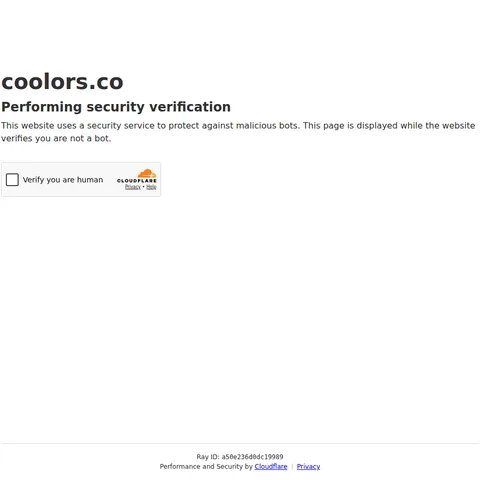
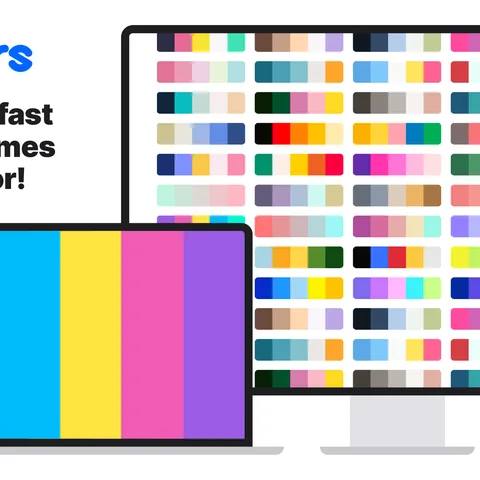
Name tiles for sites that block previews; sturdier sorting; fix Coolors and GEO

diff --git a/scripts/board.py b/scripts/board.py
@@ -134,6 +134,13 @@ def _parse_page(page, final_url):
     }
 
 
+BLOCK_TITLES = re.compile(r"^(just a moment|attention required|access denied|forbidden|403|security check|are you a robot|verify you are human)", re.I)
+
+
+def is_block_page(meta):
+    return bool(meta.get("title") and BLOCK_TITLES.match(meta["title"].strip()))
+
+
 def _oembed(url):
     endpoint = next((e for d, e in OEMBED.items() if site_of(url) == d or site_of(url).endswith("." + d)), None)
     if not endpoint:
@@ -189,6 +196,9 @@ def fetch_metadata(url):
             if meta is None:
                 raise
             print(f"  browser fetch failed ({e})")
+    if is_block_page(meta):
+        # The site refused automated visitors; keep only what the address tells us.
+        meta = {"final_url": url, "title": None, "description": None, "site_name": None, "image": None, "blocked": True}
     embed = _oembed(meta["final_url"])
     if embed.get("title"):
         meta["title"] = embed["title"]
@@ -221,8 +231,33 @@ def screenshot(url):
         page.goto(url, wait_until="domcontentloaded", timeout=45000)
         page.wait_for_timeout(5000)
         png = page.screenshot()
+        title = page.title()
         browser.close()
-    return Image.open(io.BytesIO(png))
+    return Image.open(io.BytesIO(png)), title
+
+
+def name_tile(text):
+    """A plain tile with the site's name, for sites that refuse to be previewed."""
+    from PIL import ImageDraw, ImageFont
+
+    palette = [("#1d1d1f", "#ffffff"), ("#e8e4dc", "#1d1d1f"), ("#dfe7f0", "#1d1d1f"), ("#efe1e6", "#1d1d1f"), ("#e3eadf", "#1d1d1f")]
+    bg, fg = palette[int(hashlib.sha1(text.encode()).hexdigest(), 16) % len(palette)]
+    img = Image.new("RGB", (TILE_PX, TILE_PX), bg)
+    draw = ImageDraw.Draw(img)
+    label = text.split(".")[0] if text.count(".") <= 2 else text
+    font = None
+    for path in ("/usr/share/fonts/truetype/dejavu/DejaVuSans-Bold.ttf", "/usr/share/fonts/truetype/liberation/LiberationSans-Bold.ttf"):
+        if os.path.exists(path):
+            size = 110
+            while size > 30:
+                font = ImageFont.truetype(path, size)
+                if draw.textlength(label, font=font) <= TILE_PX * 0.8:
+                    break
+                size -= 6
+            break
+    font = font or ImageFont.load_default()
+    draw.text((TILE_PX / 2, TILE_PX / 2), label, fill=fg, font=font, anchor="mm")
+    return img
 
 
 def make_tile(url, meta):
@@ -236,8 +271,16 @@ def make_tile(url, meta):
             img, kind = _square(_download_image(meta["image"]), anchor_top=False), "preview"
         except Exception as e:  # a broken preview image falls back to a screenshot
             print(f"  preview image failed ({e}); taking a screenshot")
+    if img is None and not meta.get("blocked"):
+        try:
+            shot = screenshot(url)
+            img, kind = _square(shot[0], anchor_top=True), "screenshot"
+            if BLOCK_TITLES.match(shot[1] or ""):
+                img = None
+        except Exception as e:
+            print(f"  screenshot failed ({e}); drawing a name tile")
     if img is None:
-        img, kind = _square(screenshot(url), anchor_top=True), "screenshot"
+        img, kind = name_tile(meta.get("site_name") or site_of(url)), "name"
     img.save(out, "WEBP", quality=82)
     return f"img/{out.name}", kind
 
@@ -280,14 +323,19 @@ def classify(url, meta, folders, hint=None):
                 headers={"Authorization": f"Bearer {token}", "Content-Type": "application/json"},
             )
             with urllib.request.urlopen(req, timeout=60) as r:
-                answer = json.loads(json.loads(r.read())["choices"][0]["message"]["content"])
+                raw = r.read().decode("utf-8", "ignore")
+            try:
+                content = json.loads(raw)["choices"][0]["message"]["content"]
+                answer = json.loads(re.search(r"\{.*\}", content, re.S).group(0))
+            except Exception:
+                raise ValueError(f"unexpected reply: {raw[:300]}")
             name, folder = answer["name"].strip(), answer["folder"].strip()
             match = next((f for f in folders if f.lower() == folder.lower()), None)
             return name, match or folder[:1].upper() + folder[1:]
         except Exception as e:  # sorting must never block saving the link
             print(f"  automatic sorting failed ({e}); using keywords")
     text = " ".join(filter(None, [hint, url, meta.get("title"), meta.get("description")]))
-    title = (meta.get("title") or site_of(url)).split("|")[0].split(" — ")[0].split(" - ")[0].strip()
+    title = (meta.get("title") or site_of(url).split(".")[0].capitalize()).split("|")[0].split(" — ")[0].split(" - ")[0].strip()
     return title[:40], _keyword_folder(text)
 
 
